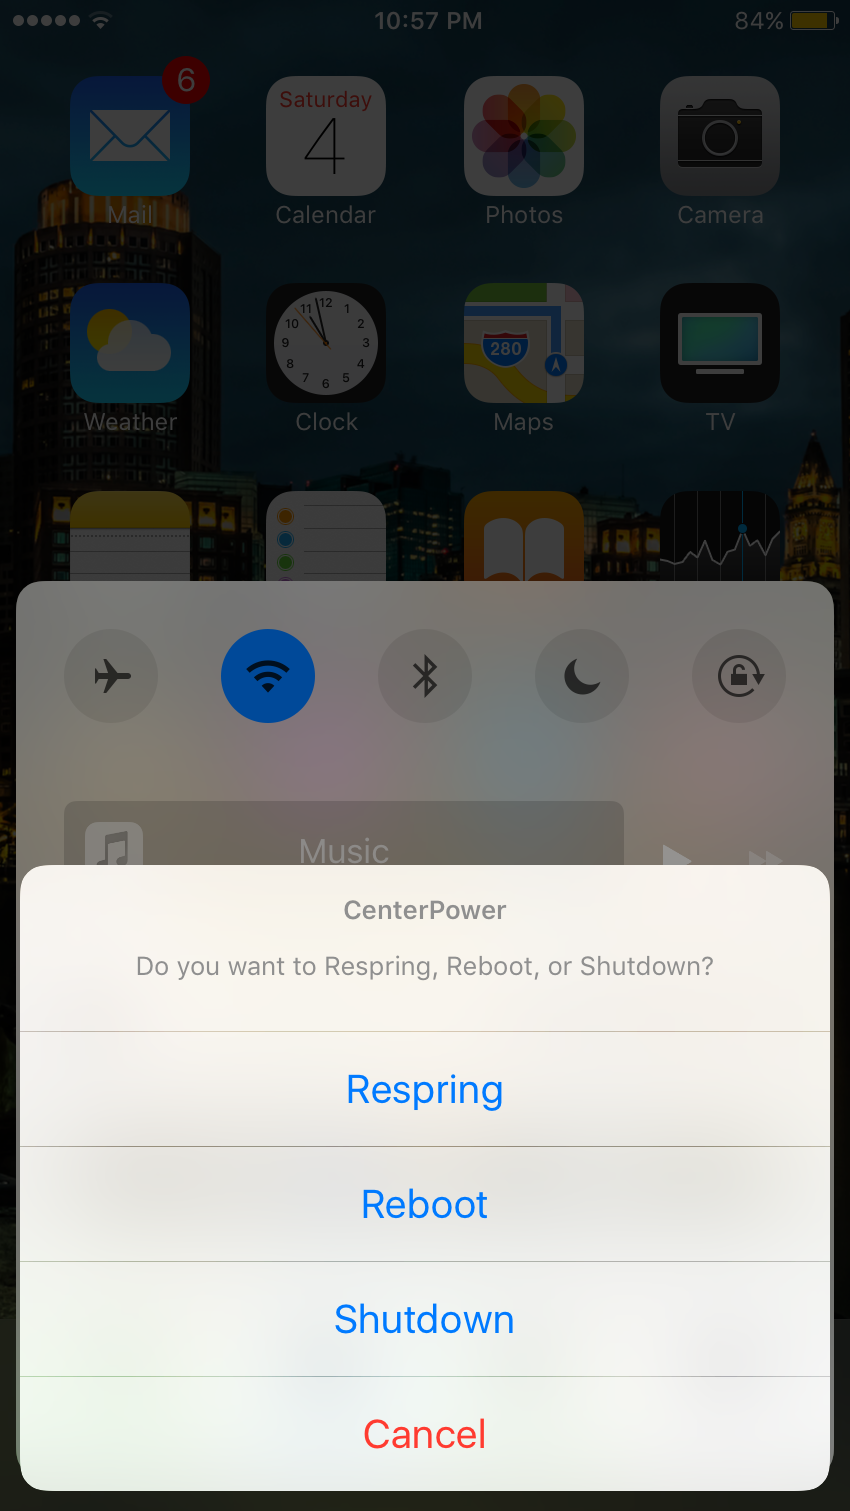
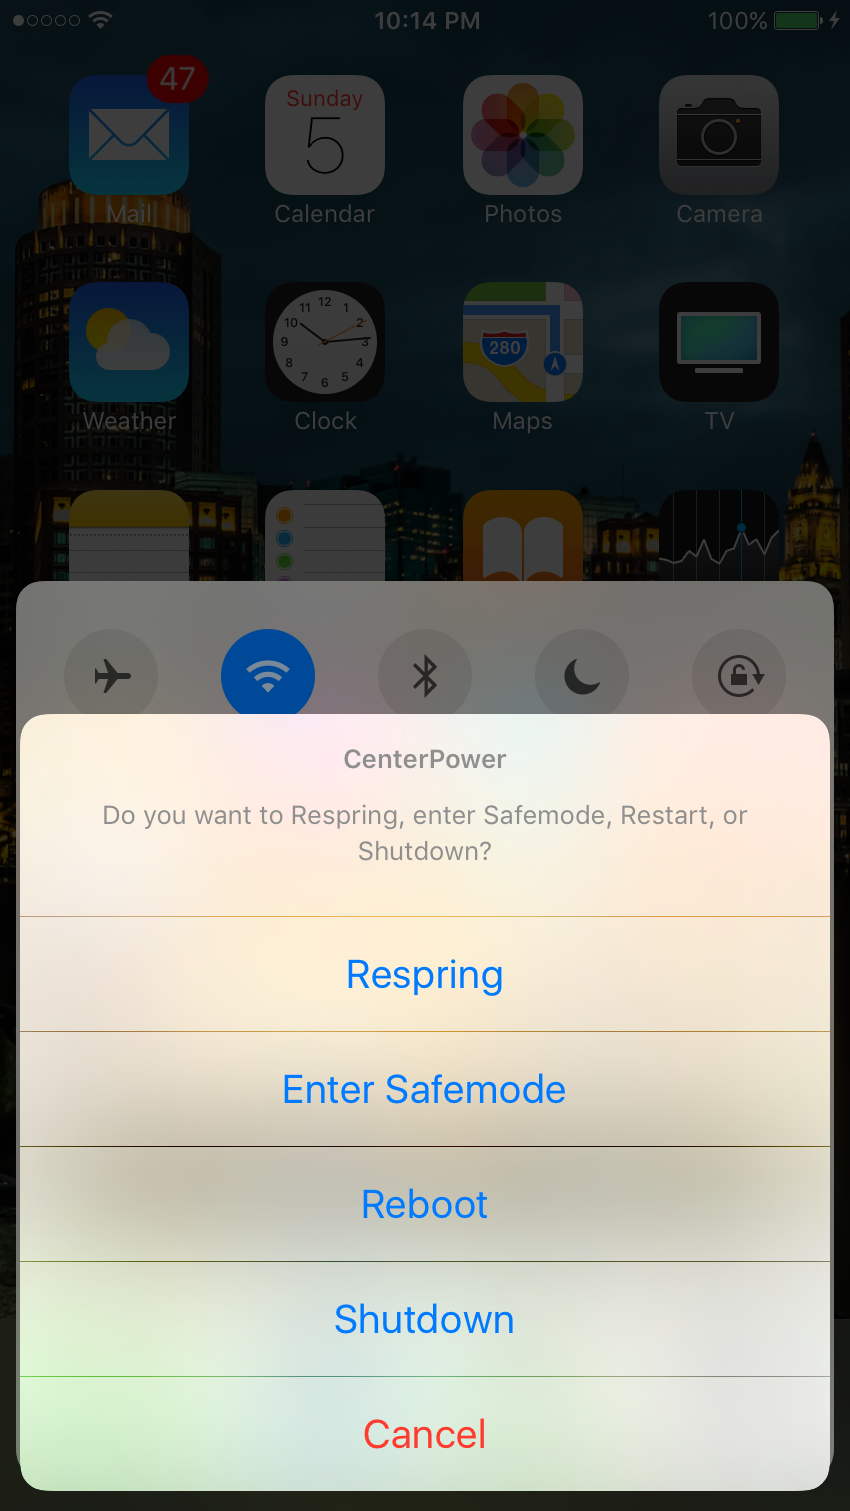
powercenter: update 0.0.5 (safemode option)

diff --git a/beta/depictions/PowerCenter/index.html b/beta/depictions/PowerCenter/index.html
@@ -386,7 +386,7 @@ footer :last-child {
 		PowerCenter is currently in <span class="red"><b>beta</b></span> form. There may be glitches or bugs. Report them below.
       </li>
       <li>
-        Current Version: 0.0.4
+        Current Version: 0.0.5
       </li>
     </ul>
     <ul>
@@ -398,6 +398,9 @@ footer :last-child {
     </ul>
     <h2 id="in-this-version">Recent Changes</h2>
     <ul>
+    <li>
+		0.0.5 - Added Safemode option.
+    </li>
     <li>
 		0.0.4 - Added Spanish localization strings.
     </li>
@@ -414,6 +417,12 @@ footer :last-child {
     <h2 id="known-issues">Known Issues</h2>
     <ul>
       <li>- The Reboot option may only Respring the device.</li>
+    </ul>
+    <ul>
+    </ul>
+    <h2 id="known-issues">Special Thanks:</h2>
+    <ul>
+      <li>Chapadizzle (help find Safemode arguments) and beta testers.</li>
     </ul>
     <ul>
       <li>
